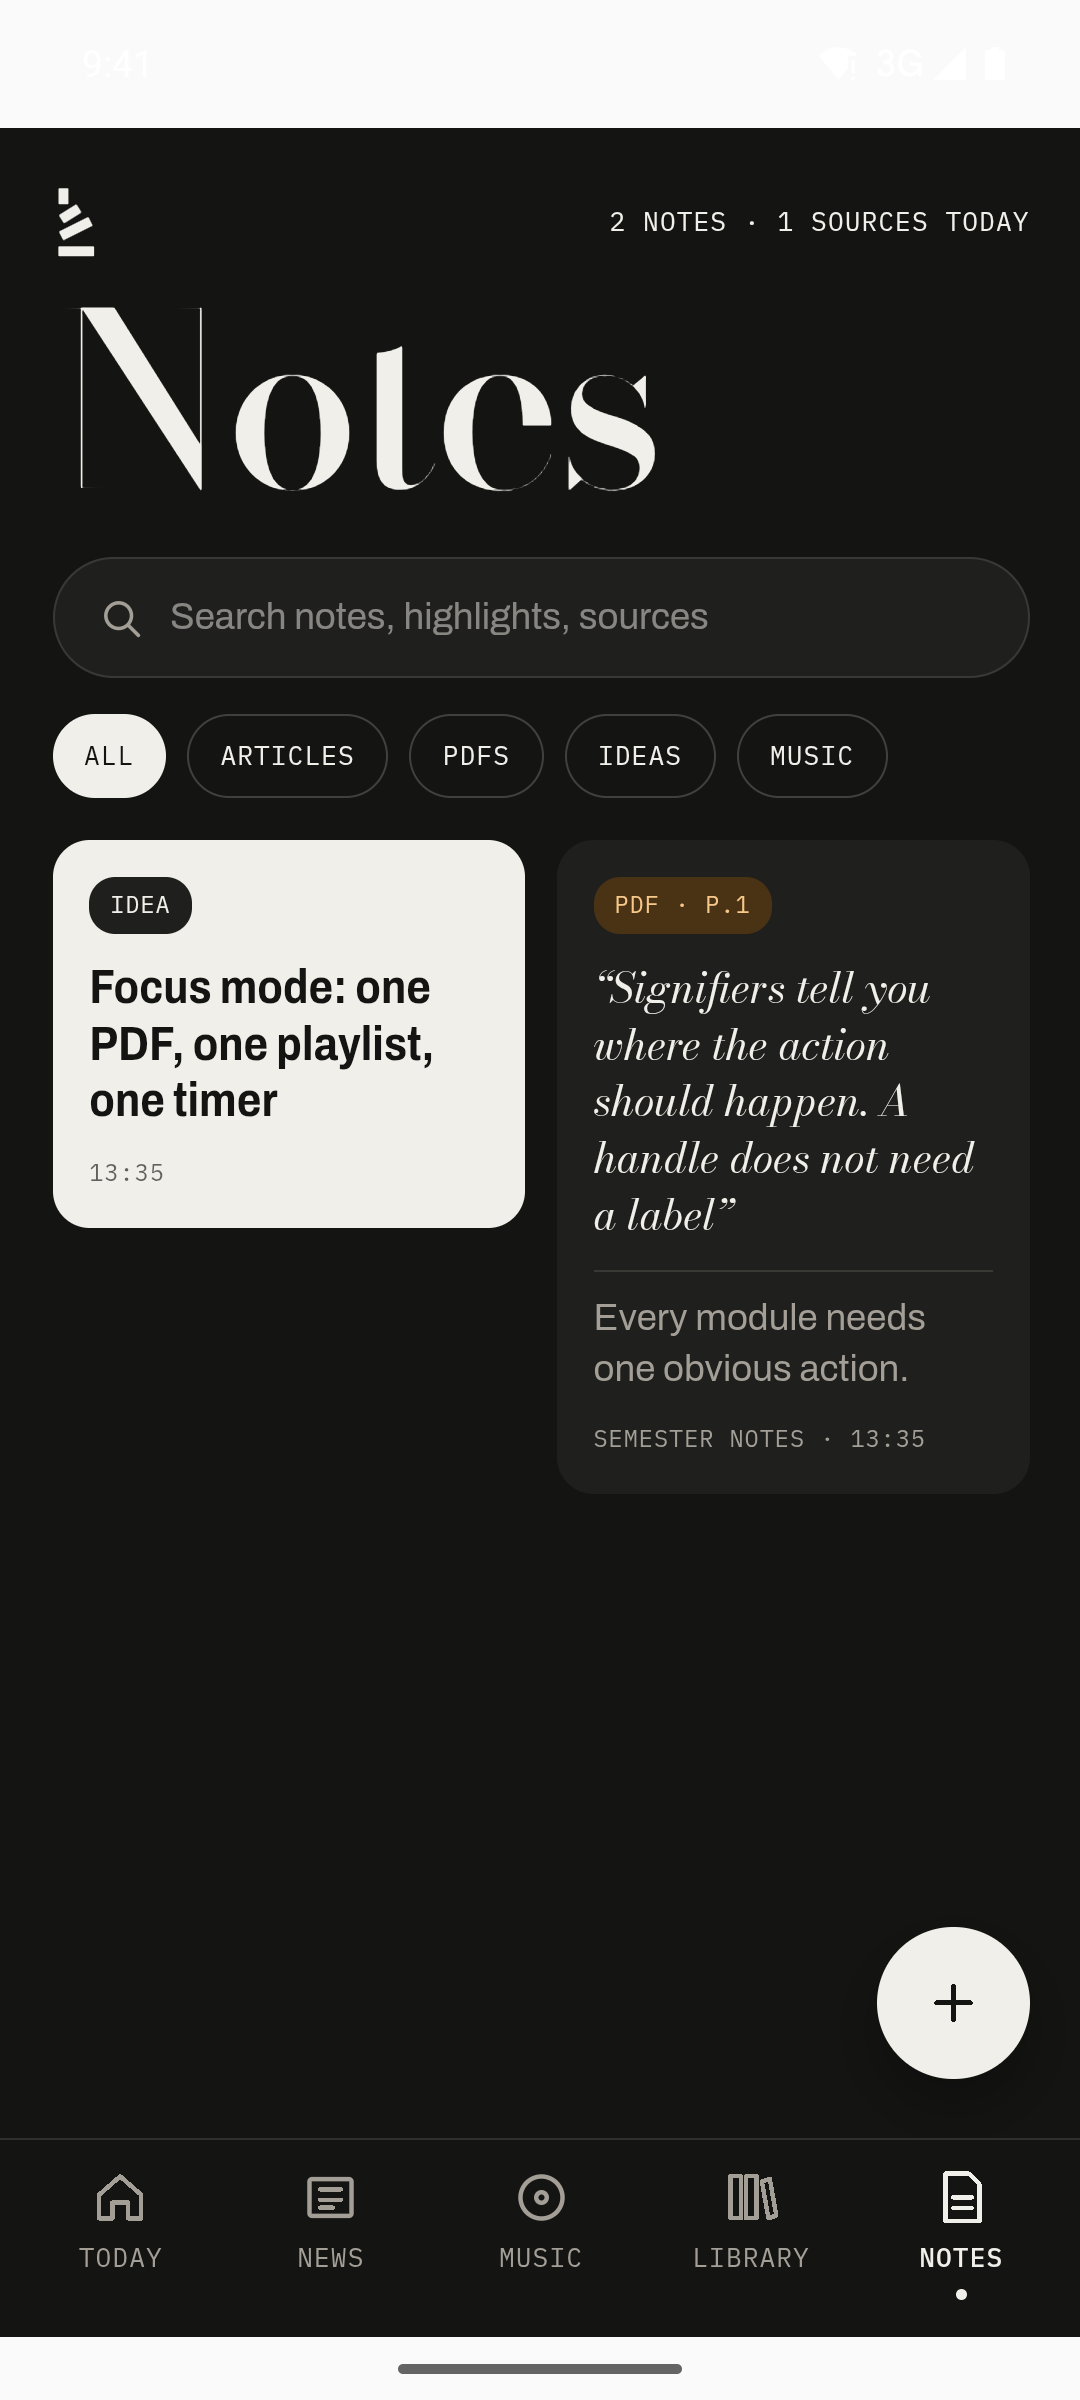
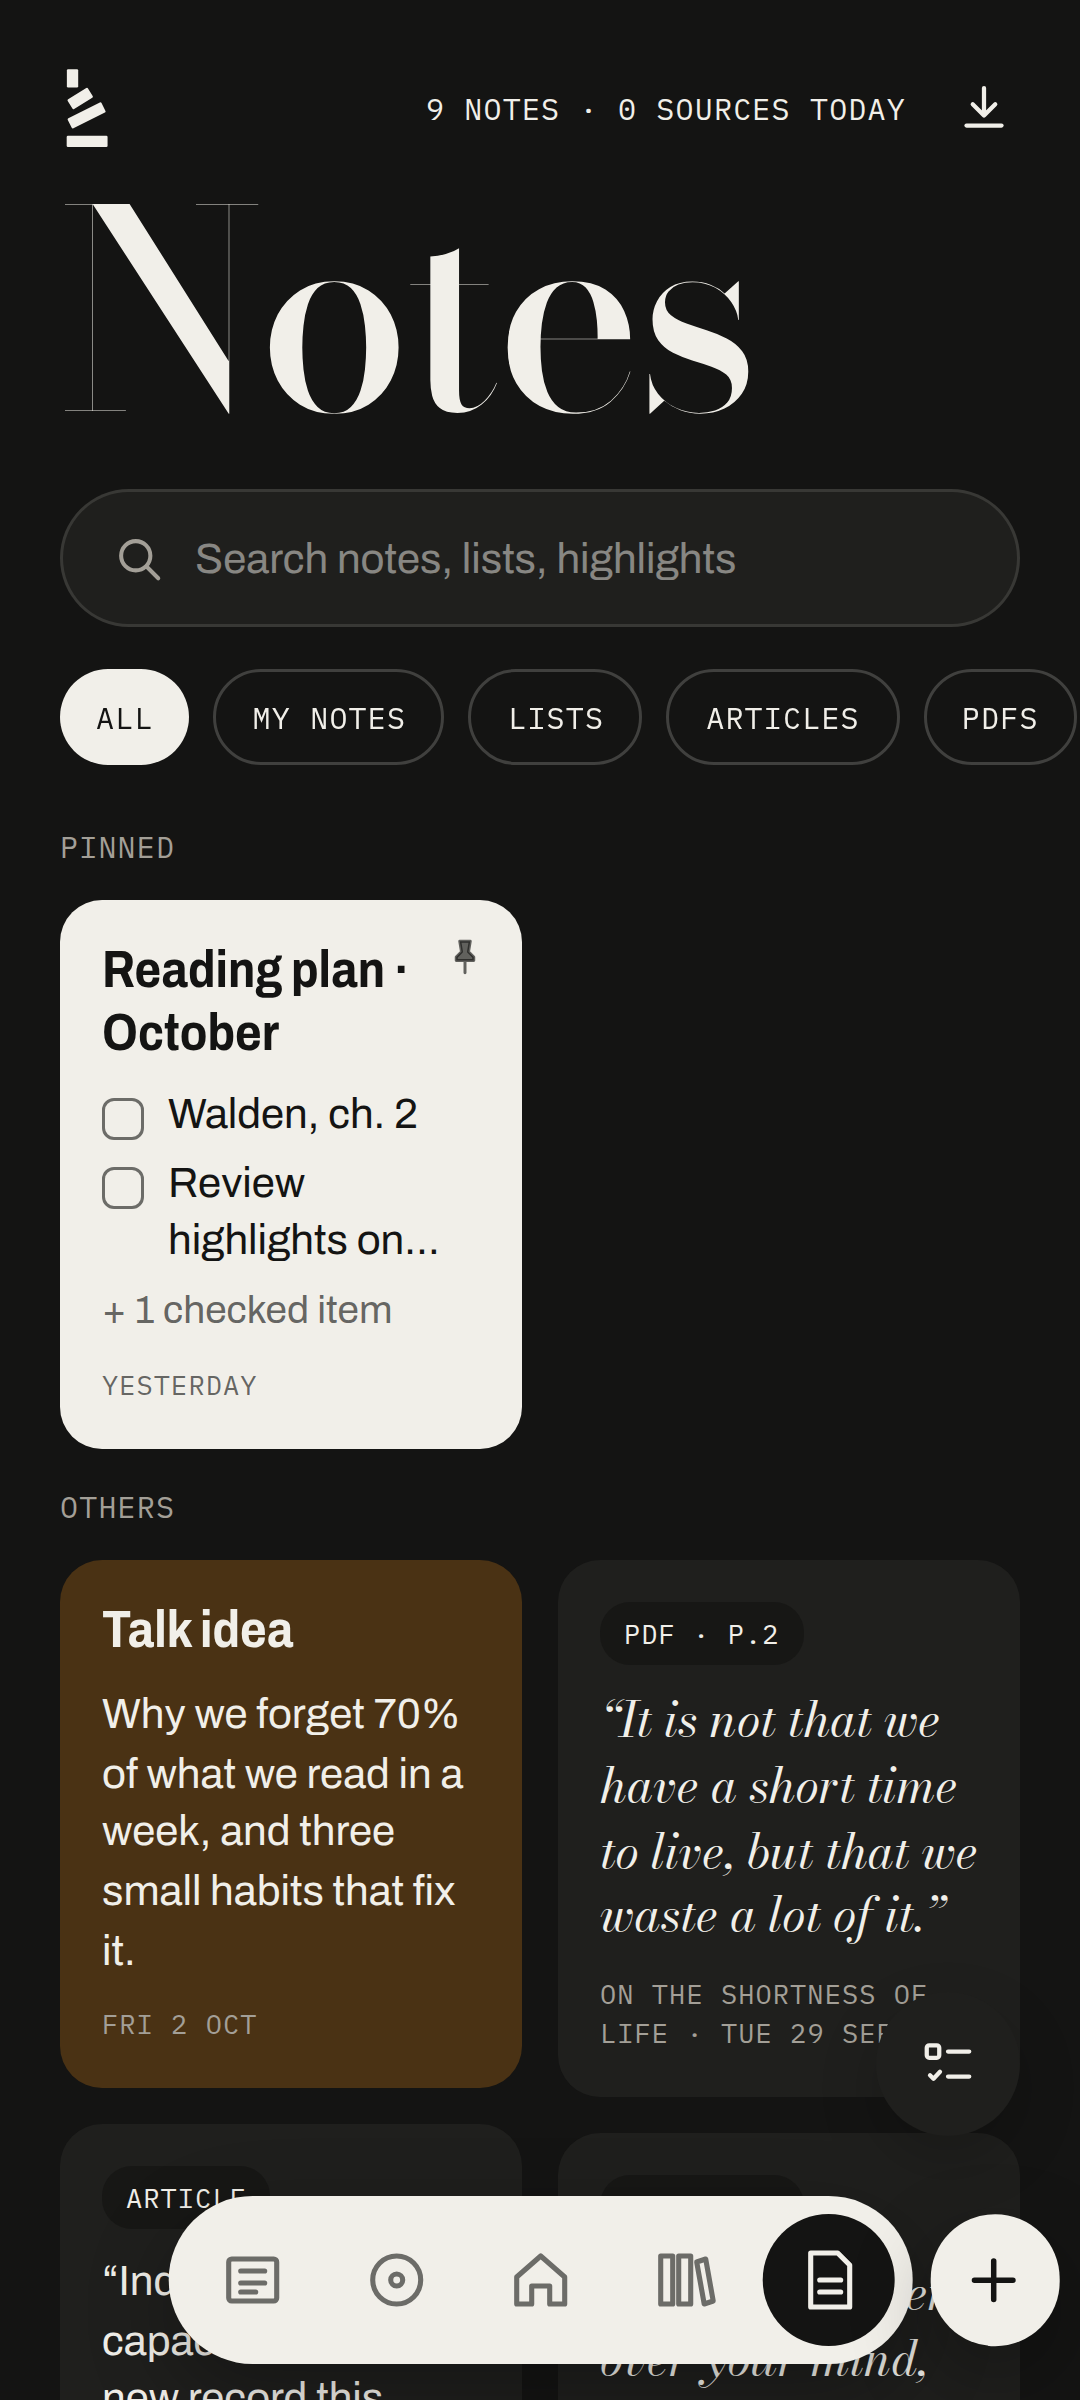
Website: new app screenshots and the app's current look
- Fresh light and dark screenshots of Today, News, Music, Library and Notes
- The app's floating tab pill on phones and its tablet rail on larger screens
- Tab titles in each screen's own type (upright Bodoni for Library and Notes)
- App-style cards, buttons and chips; hero cards copy the highlight card
  and mini player

diff --git a/website/src/app/page.tsx b/website/src/app/page.tsx
@@ -14,6 +14,16 @@ import { SITE } from "@/lib/site";
 // Staggered load delays, as classes so no inline styles are needed.
 const LETTER_DELAYS = ["[animation-delay:350ms]", "[animation-delay:420ms]", "[animation-delay:490ms]", "[animation-delay:560ms]", "[animation-delay:630ms]"];
 
+// Bar heights for the mini player's level meter, as classes (no inline styles).
+const WEEK_BARS = ["h-[60%]", "h-[30%]", "h-[85%]", "h-[50%]", "h-[95%]", "h-[25%]", "h-[70%]"];
+
+// Each tab's title in the type the app uses for that screen's own header:
+// condensed caps for Today, News and Music, the serif for Library and Notes.
+const HEADINGS = {
+  display: "display text-6xl sm:text-7xl",
+  serif: "font-serif text-6xl font-medium leading-none tracking-[-0.01em] sm:text-7xl",
+};
+
 // The app's first launch (stack/src/app/welcome/page.tsx), step by step.
 const FIRST_MINUTE = [
   { n: "01", title: "Open Stack", body: "The logo stacks itself up, block by block, and you’re on the welcome screen." },
@@ -29,6 +39,8 @@ const TOUR: {
   lead: string;
   points: string[];
   text: string;
+  dot: string;
+  heading: keyof typeof HEADINGS;
   shot: { light: string; dark?: string; alt: string };
 }[] = [
   {
@@ -43,6 +55,8 @@ const TOUR: {
       "This week: time read, articles finished and PDF pages, a bar for each day",
     ],
     text: "text-music-text",
+    dot: "bg-music",
+    heading: "display",
     shot: { light: "/screens/today-light.png", dark: "/screens/today-dark.png", alt: "The Today tab with the top story, PDFs in progress and recent notes" },
   },
   {
@@ -57,6 +71,8 @@ const TOUR: {
       "Breaking-news alerts for the topics you pick, at most one an hour",
     ],
     text: "text-news-text",
+    dot: "bg-news",
+    heading: "display",
     shot: { light: "/screens/news-light.png", dark: "/screens/news-dark.png", alt: "The News tab showing stories as swipeable flash cards" },
   },
   {
@@ -70,6 +86,8 @@ const TOUR: {
       "Playlists with your own cover images",
     ],
     text: "text-music-text",
+    dot: "bg-music",
+    heading: "display",
     shot: { light: "/screens/music-light.png", dark: "/screens/music-dark.png", alt: "The Music tab with songs from the phone" },
   },
   {
@@ -83,11 +101,13 @@ const TOUR: {
       "Listen: articles and PDFs read aloud, with the same controls as music",
     ],
     text: "text-pdf-deep",
+    dot: "bg-pdf",
+    heading: "serif",
     shot: { light: "/screens/library-light.png", dark: "/screens/library-dark.png", alt: "The Library tab with coloured shelves of PDFs" },
   },
   {
     id: "notes",
-    title: "NOTES",
+    title: "Notes",
     lead: "Every highlight becomes a note that remembers where it came from, next to the notes you write yourself.",
     points: [
       "Titles, checklists, colours and pins",
@@ -96,6 +116,8 @@ const TOUR: {
       "Export to Markdown for Obsidian, Notion or any editor",
     ],
     text: "text-ink",
+    dot: "bg-ink",
+    heading: "serif",
     shot: { light: "/screens/notes-light.png", dark: "/screens/notes-dark.png", alt: "The Notes tab with notes and saved highlights" },
   },
 ];
@@ -148,7 +170,7 @@ export default function Home() {
             <Logo size={28} />
             <span className="display text-2xl">STACK</span>
           </a>
-          <a href="#join" className="label rounded-full bg-ink px-4 py-2.5 text-xs text-on-ink transition hover:opacity-90">
+          <a href="#join" className="rounded-full bg-ink px-4 py-2.5 text-sm font-semibold text-on-ink transition hover:opacity-90">
             Join<span className="max-sm:hidden"> the soft launch</span>
           </a>
         </div>
@@ -211,23 +233,21 @@ function Hero() {
           </p>
 
           <div className="rise mt-9 flex flex-wrap items-center gap-3 [animation-delay:1050ms]">
-            <a href="#join" className="label group inline-flex items-center gap-2 rounded-full bg-ink px-7 py-4 text-sm text-on-ink transition hover:opacity-90">
+            <a href="#join" className="group inline-flex h-14 items-center gap-2 rounded-full bg-ink px-7 text-[15px] font-semibold text-on-ink shadow-[0_10px_28px_rgba(0,0,0,.18)] transition hover:opacity-90">
               Join the soft launch
               <span aria-hidden="true" className="transition group-hover:translate-x-1">→</span>
             </a>
-            <a href="#first-minute" className="label rounded-full border border-ink px-7 py-4 text-sm transition hover:bg-paper-2">
+            <a href="#first-minute" className="inline-flex h-14 items-center rounded-full border border-ink/15 bg-card px-7 text-[15px] font-semibold transition hover:border-ink">
               See the app
             </a>
           </div>
 
-          <ul className="rise label mt-8 flex flex-wrap gap-x-5 gap-y-2 text-xs text-muted [animation-delay:1200ms]">
-            <li>Free</li>
-            <li aria-hidden="true">·</li>
-            <li>Open source</li>
-            <li aria-hidden="true">·</li>
-            <li>Works offline</li>
-            <li aria-hidden="true">·</li>
-            <li>No ads</li>
+          <ul className="rise label mt-8 flex flex-wrap gap-2 text-[11px] [animation-delay:1200ms]">
+            {["Free", "Open source", "Works offline", "No ads"].map((t, i) => (
+              <li key={t} className={`rounded-full px-3.5 py-2 ${i === 0 ? "bg-ink text-on-ink" : "border border-ink/15 text-ink"}`}>
+                {t}
+              </li>
+            ))}
           </ul>
         </div>
 
@@ -241,12 +261,13 @@ function Hero() {
             className="phone-in"
           />
 
+          {/* A highlight, as the app's note cards show it (stack/src/components/note-card.tsx) */}
           <div
             aria-hidden="true"
-            className="float absolute -left-16 top-[14%] w-56 rounded-2xl border border-rule bg-card p-4 shadow-xl [animation-delay:1400ms,2.9s] max-sm:-left-6 max-sm:w-48"
+            className="float absolute -left-16 top-[14%] w-60 rounded-[14px] bg-card px-4 py-3.5 shadow-[0_18px_40px_rgb(0_0_0/0.14)] [animation-delay:1400ms,2.9s] max-sm:-left-6 max-sm:w-52"
           >
-            <p className="label text-[10px] text-pdf-deep">Highlight · PDF p.1</p>
-            <p className="mt-2 font-serif text-[15px] italic leading-snug">
+            <span className="label inline-block rounded-full border border-ink/15 px-2 py-0.5 text-[9px] text-pdf-deep">Highlight · PDF p. 1</span>
+            <p className="mt-2 font-serif text-[17px] italic leading-snug">
               “<span className="bg-pdf/40">Signifiers tell you where the action should happen.</span>”
             </p>
           </div>
@@ -259,16 +280,28 @@ function Hero() {
             Saved to Stack
           </div>
 
+          {/* The app's mini player (stack/src/components/mini-player.tsx) */}
           <div
             aria-hidden="true"
-            className="float absolute -right-14 bottom-[12%] w-52 rounded-2xl bg-ink p-4 text-on-ink shadow-xl [animation-delay:1900ms,3.5s] max-sm:-right-4 max-sm:w-44"
+            className="float absolute -right-14 bottom-[12%] flex h-[62px] w-64 items-center gap-3 rounded-[14px] bg-card px-2.5 shadow-[0_18px_40px_rgb(0_0_0/0.16)] [animation-delay:1900ms,3.5s] max-sm:-right-4 max-sm:w-56"
           >
-            <p className="label text-[10px] opacity-60">Daily review · 3 today</p>
-            <p className="mt-2 text-sm font-semibold leading-snug">Every module needs one obvious action.</p>
-            <div className="mt-3 flex gap-2">
-              <span className="label rounded-full bg-on-ink px-2.5 py-1 text-[10px] text-ink">Got it</span>
-              <span className="label rounded-full border border-on-ink/30 px-2.5 py-1 text-[10px]">Again soon</span>
-            </div>
+            <span className="grid size-[42px] shrink-0 place-items-center rounded-md bg-music text-white">
+              <span className="flex h-3.5 items-end gap-[3px]">
+                {WEEK_BARS.slice(0, 3).map((h) => (
+                  <span key={h} className={`w-[3px] rounded-full bg-white ${h}`} />
+                ))}
+              </span>
+            </span>
+            <span className="flex min-w-0 grow flex-col gap-0.5">
+              <span className="truncate text-[13px] font-semibold">Focus mix</span>
+              <span className="label truncate text-[9px] text-muted">From your phone · 1:24</span>
+            </span>
+            <span className="grid size-9 shrink-0 place-items-center rounded-full bg-music text-white">
+              <span className="flex gap-[3px]">
+                <span className="h-3 w-[3px] rounded-sm bg-white" />
+                <span className="h-3 w-[3px] rounded-sm bg-white" />
+              </span>
+            </span>
           </div>
         </div>
       </div>
@@ -310,7 +343,7 @@ function FirstMinute() {
       </div>
       <ol className="mt-12 grid gap-4 sm:grid-cols-2 lg:grid-cols-4">
         {FIRST_MINUTE.map((s, i) => (
-          <li key={s.n} className="reveal relative rounded-3xl border border-rule bg-card p-6">
+          <li key={s.n} className="reveal relative rounded-2xl bg-card p-6 shadow-[0_8px_24px_rgba(0,0,0,.05)]">
             <p className="label text-[11px] font-medium text-muted">Step {s.n}</p>
             <h3 className="mt-8 text-2xl font-extrabold tracking-tight">{s.title}</h3>
             <p className="mt-2 text-muted">{s.body}</p>
@@ -328,7 +361,7 @@ function FirstMinute() {
 
 function Tour() {
   return (
-    <section aria-labelledby="tour-title" className="border-y border-line bg-paper-2">
+    <section id="tour" aria-labelledby="tour-title" className="border-y border-line bg-paper-2">
       <div className="mx-auto max-w-6xl px-4 pt-20 sm:px-6 sm:pt-28">
         <div className="reveal">
           <p className="label text-xs text-muted">Inside the app</p>
@@ -339,9 +372,9 @@ function Tour() {
         </div>
       </div>
 
-      {/* Phones: the tab bar sticks under the header, like the app's bottom bar. */}
-      <div className="sticky top-16 z-30 mt-10 md:hidden">
-        <TabNav layout="bar" />
+      {/* Phones: the app's floating tab pill, while the tour is on screen. */}
+      <div className="md:hidden">
+        <TabNav layout="pill" />
       </div>
 
       <div className="mx-auto grid max-w-6xl gap-10 px-4 pb-20 sm:px-6 sm:pb-28 md:mt-12 md:grid-cols-[88px_1fr]">
@@ -357,18 +390,18 @@ function Tour() {
             <article
               key={t.id}
               id={`tab-${t.id}`}
-              className="grid scroll-mt-36 items-center gap-10 border-b border-rule py-16 first:pt-6 last:border-0 md:scroll-mt-24 md:grid-cols-[1fr_260px] md:gap-16"
+              className="grid scroll-mt-24 items-center gap-10 border-b border-rule py-16 first:pt-6 last:border-0 md:scroll-mt-24 md:grid-cols-[1fr_260px] md:gap-16"
             >
               <div className="reveal">
                 <p className={`label text-[11px] font-medium ${t.text}`}>
                   0{i + 1} — {t.id}
                 </p>
-                <h3 className="display mt-4 text-6xl sm:text-7xl">{t.title}</h3>
+                <h3 className={`mt-4 ${HEADINGS[t.heading]}`}>{t.title}</h3>
                 <p className="mt-5 max-w-lg text-lg text-prose">{t.lead}</p>
-                <ul className="mt-6 grid max-w-lg gap-3">
+                <ul className="mt-6 grid max-w-lg divide-y divide-line rounded-2xl bg-card px-4 shadow-[0_8px_24px_rgba(0,0,0,.05)]">
                   {t.points.map((p) => (
-                    <li key={p} className="flex gap-3 text-prose">
-                      <span className="mt-2.5 size-1.5 shrink-0 rounded-full bg-ink" aria-hidden="true" />
+                    <li key={p} className="flex gap-3 py-3 text-prose">
+                      <span className={`mt-2 size-2 shrink-0 rounded-full ${t.dot}`} aria-hidden="true" />
                       {p}
                     </li>
                   ))}
@@ -431,7 +464,7 @@ function Join() {
             </li>
           ))}
         </ul>
-        <div className="mt-10 rounded-3xl border border-rule p-6">
+        <div className="mt-10 rounded-2xl bg-paper-2 p-6">
           <p className="label text-[11px] font-medium">What happens next</p>
           <ol className="mt-4 grid gap-3">
             {[
@@ -448,7 +481,7 @@ function Join() {
           </ol>
         </div>
       </div>
-      <div className="reveal rounded-[2rem] border border-rule bg-card p-6 shadow-[0_20px_60px_rgb(0_0_0/0.06)] sm:p-8">
+      <div className="reveal rounded-[1.75rem] bg-card p-6 shadow-[0_20px_60px_rgb(0_0_0/0.08)] sm:p-8">
         <SignupForm />
       </div>
     </section>
@@ -463,12 +496,15 @@ function Questions() {
           <p className="label text-xs text-muted">Questions</p>
           <h2 className="display mt-3 text-6xl sm:text-8xl">FAQ</h2>
         </div>
-        <div className="reveal mt-10 divide-y divide-rule border-y border-rule">
+        <div className="reveal mt-10 grid gap-2.5">
           {FAQ.map((f) => (
-            <details key={f.q} className="group py-5">
+            <details key={f.q} className="group rounded-2xl bg-card px-5 py-4">
               <summary className="flex cursor-pointer list-none items-center justify-between gap-4 text-lg font-semibold">
                 {f.q}
-                <span className="label text-xl text-muted transition group-open:rotate-45" aria-hidden="true">
+                <span
+                  className="grid size-8 shrink-0 place-items-center rounded-full bg-paper-2 text-lg text-ink transition group-open:rotate-45 group-open:bg-ink group-open:text-on-ink"
+                  aria-hidden="true"
+                >
                   +
                 </span>
               </summary>

diff --git a/website/src/components/tab-nav.tsx b/website/src/components/tab-nav.tsx
@@ -13,12 +13,17 @@ export const TABS = [
   { id: "notes", label: "Notes", Icon: NoteIcon, dot: "bg-ink" },
 ] as const;
 
+// The app's floating pill puts Today in the middle; the rail keeps it first.
+const PILL = [TABS[1], TABS[2], TABS[0], TABS[3], TABS[4]];
+
 export type TabId = (typeof TABS)[number]["id"];
 
 // Marks the tab whose section is in the middle of the screen, like the
 // app marks the screen you're on. Without JavaScript the links still work.
-export function TabNav({ layout }: { layout: "rail" | "bar" }) {
+// On phones the pill only floats while the tour is on screen.
+export function TabNav({ layout }: { layout: "rail" | "pill" }) {
   const [active, setActive] = useState<TabId>("today");
+  const [shown, setShown] = useState(false);
 
   useEffect(() => {
     const observer = new IntersectionObserver(
@@ -31,19 +36,46 @@ export function TabNav({ layout }: { layout: "rail" | "bar" }) {
       const el = document.getElementById(`tab-${t.id}`);
       if (el) observer.observe(el);
     }
-    return () => observer.disconnect();
+    const tour = document.getElementById("tour");
+    const inTour = new IntersectionObserver(([e]) => setShown(e.isIntersecting), { rootMargin: "-30% 0px -40% 0px" });
+    if (tour) inTour.observe(tour);
+    return () => {
+      observer.disconnect();
+      inTour.disconnect();
+    };
   }, []);
 
-  const rail = layout === "rail";
+  if (layout === "pill") {
+    return (
+      <nav
+        aria-label="App tabs"
+        className={`fixed bottom-[max(env(safe-area-inset-bottom),14px)] left-1/2 z-40 flex -translate-x-1/2 gap-1 rounded-full bg-ink p-1.5 shadow-[0_10px_28px_rgba(0,0,0,.28)] transition duration-300 ${
+          shown ? "translate-y-0 opacity-100" : "pointer-events-none translate-y-24 opacity-0"
+        }`}
+      >
+        {PILL.map(({ id, label, Icon }) => {
+          const on = active === id;
+          return (
+            <a
+              key={id}
+              href={`#tab-${id}`}
+              aria-label={label}
+              aria-current={on ? "true" : undefined}
+              tabIndex={shown ? undefined : -1}
+              className={`flex size-[min(48px,12.2vw)] items-center justify-center rounded-full transition-colors ${
+                on ? "bg-on-ink text-ink" : "text-on-ink/60 hover:text-on-ink"
+              }`}
+            >
+              <Icon />
+            </a>
+          );
+        })}
+      </nav>
+    );
+  }
+
   return (
-    <nav
-      aria-label="App tabs"
-      className={
-        rail
-          ? "flex flex-col items-center gap-2 rounded-3xl border border-line bg-paper py-4"
-          : "flex justify-between border-y border-line bg-paper/95 px-2 pt-2 pb-1.5 backdrop-blur"
-      }
-    >
+    <nav aria-label="App tabs" className="flex flex-col items-center gap-2 rounded-3xl border border-line bg-paper py-4">
       {TABS.map(({ id, label, Icon, dot }) => {
         const on = active === id;
         return (
@@ -51,8 +83,8 @@ export function TabNav({ layout }: { layout: "rail" | "bar" }) {
             key={id}
             href={`#tab-${id}`}
             aria-current={on ? "true" : undefined}
-            className={`flex flex-col items-center gap-1 transition-colors ${rail ? "h-[62px] w-16" : "h-[50px] w-16"} ${
-              on ? "text-ink" : "text-muted hover:text-ink"
+            className={`flex h-[68px] w-[72px] flex-col items-center justify-center gap-1 rounded-2xl transition ${
+              on ? "bg-card text-ink shadow-[0_2px_10px_rgba(0,0,0,.05)]" : "text-muted hover:text-ink"
             }`}
           >
             <Icon />

diff --git a/website/src/app/layout.tsx b/website/src/app/layout.tsx
@@ -7,7 +7,7 @@ import "./globals.css";
 // Same fonts as the app. next/font downloads them at build time and serves
 // them from this site, so no request goes to Google and the CSP stays 'self'.
 const archivo = Archivo({ variable: "--font-archivo", subsets: ["latin"], axes: ["wdth"] });
-const bodoni = Bodoni_Moda({ variable: "--font-bodoni", subsets: ["latin"], style: ["italic"], axes: ["opsz"] });
+const bodoni = Bodoni_Moda({ variable: "--font-bodoni", subsets: ["latin"], style: ["normal", "italic"], axes: ["opsz"] });
 const plexMono = IBM_Plex_Mono({ variable: "--font-plex-mono", subsets: ["latin"], weight: ["400", "500"] });
 
 export const metadata: Metadata = {
